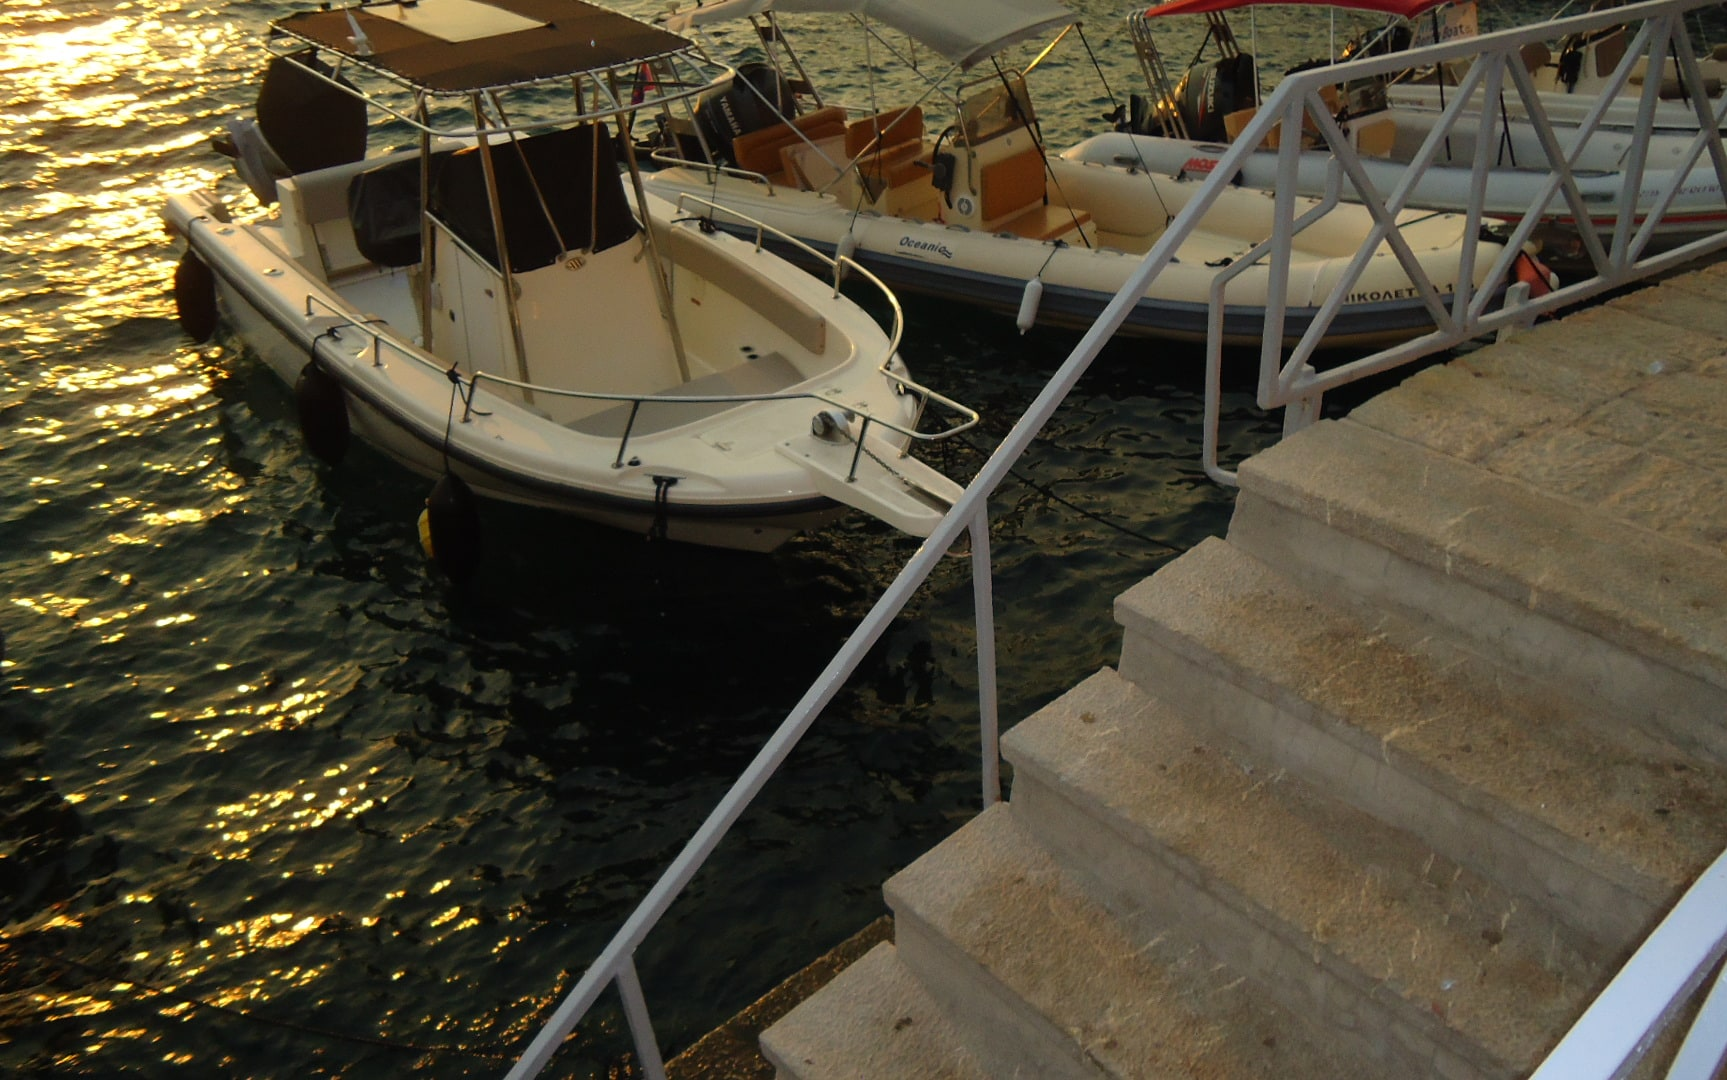
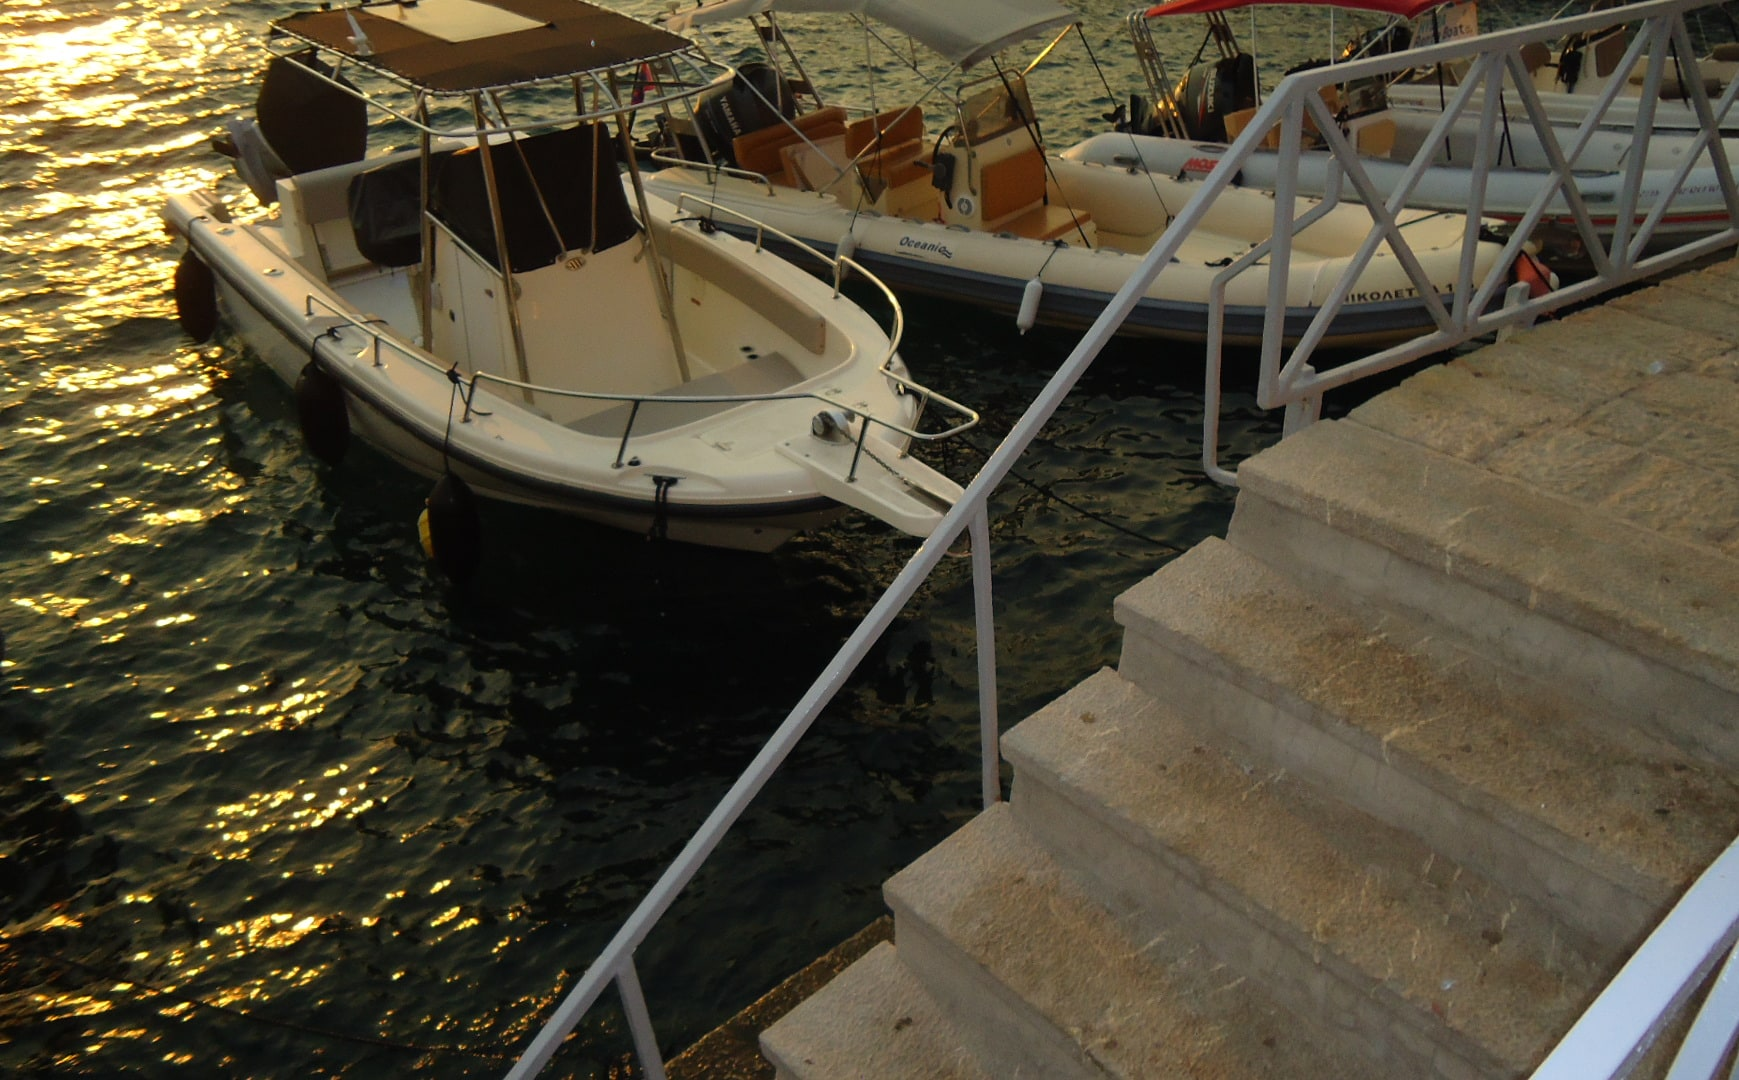
photos shadows and corners

diff --git a/portfolio.jsx b/portfolio.jsx
@@ -1299,9 +1299,41 @@ const PHOTO_EDITS = {
   "Images_camarita/DSC03769.JPG": { ar: 1.8 },
   "Images_camarita/DSC03383.JPG": { ar: 1.8 },
   "Images_camarita/DSC03571.JPG": { ar: 1.61, posX: 100, posY: 88 },
-  "Images_camarita/DSC03658.JPG": { ar: 1.6, posX: 0, posY: 0 },
+  "Images_camarita/DSC03658.JPG": { ar: 1.61, posX: 0, posY: 0 },
   "Images_camarita/DSC03883.JPG": { ar: 0.5, posY: 100 },
 };
+
+const PHOTO_GALLERY_STYLE_DEFAULTS = {
+  shadow: true,
+  shadowAmount: 65,
+  rounded: true,
+  cornerRadius: 6,
+};
+
+function photoGalleryStyleVars(style) {
+  const s = { ...PHOTO_GALLERY_STYLE_DEFAULTS, ...style };
+  const radius = s.rounded ? `${s.cornerRadius}px` : "0px";
+  let shadow = "none";
+  let shadowPad = "0px";
+  if (s.shadow && s.shadowAmount > 0) {
+    const t = s.shadowAmount / 100;
+    const y1 = 1 + 2 * t;
+    const blur1 = 3 + 5 * t;
+    const a1 = 0.06 + 0.1 * t;
+    const y2 = 3 + 8 * t;
+    const blur2 = 10 + 22 * t;
+    const a2 = 0.1 + 0.18 * t;
+    shadow =
+      `0 ${y1.toFixed(1)}px ${blur1.toFixed(1)}px rgba(0, 0, 0, ${a1.toFixed(3)}), ` +
+      `0 ${y2.toFixed(1)}px ${blur2.toFixed(1)}px rgba(0, 0, 0, ${a2.toFixed(3)})`;
+    shadowPad = `${Math.round(6 + 20 * t)}px`;
+  }
+  return {
+    "--photo-frame-radius": radius,
+    "--photo-frame-shadow": shadow,
+    "--photo-frame-shadow-pad": shadowPad,
+  };
+}
 
 function parseClampHeight(h) {
   const m = String(h).match(/clamp\((\d+)px,\s*([\d.]+)vh,\s*(\d+)px\)/);
@@ -1365,7 +1397,7 @@ function PhotoGalleryFrame({ photo, colLength, runtimeEdits }) {
     );
   }
   return (
-    <div style={photoFrameStyle(photo, colLength, null)}>
+    <div className="photo-frame__media" style={photoFrameStyle(photo, colLength, null)}>
       <img
         src={photoWebSrc(photo.src)}
         alt=""
@@ -1439,7 +1471,7 @@ function PhotoCropPreview({ photo, colLength, runtimeEdits }) {
   };
 
   return (
-    <div ref={wrapRef} style={frame}>
+    <div ref={wrapRef} className="photo-frame__media" style={frame}>
       <img
         src={photo.src}
         alt=""
@@ -1577,7 +1609,7 @@ function PhotoEyeCursor({ enabled, scrollRef, dragActiveRef, lightboxOpen }) {
   );
 }
 
-function PhotographyView({ photoGroups, photoEdits, selectedPhotoSrc, photoPickMode, onSelectPhoto }) {
+function PhotographyView({ photoGroups, photoEdits, selectedPhotoSrc, photoPickMode, onSelectPhoto, photoGalleryStyle }) {
   const scrollRef = useRef(null);
   const dragRef   = useRef({ active: false, startX: 0, scrollLeft: 0, lastX: 0, lastT: 0, velocity: 0 });
   const dragActiveRef = useRef(false);
@@ -1746,7 +1778,13 @@ function PhotographyView({ photoGroups, photoEdits, selectedPhotoSrc, photoPickM
   return (
     <div
       className={`photography-view${showSmoothEye ? " photography-view--smooth-eye" : ""}`}
-      style={{ height: "calc(100vh - var(--photo-header-h))", display: "flex", flexDirection: "column", overflow: "hidden" }}
+      style={{
+        ...photoGalleryStyleVars(photoGalleryStyle),
+        height: "calc(100vh - var(--photo-header-h))",
+        display: "flex",
+        flexDirection: "column",
+        overflow: "hidden",
+      }}
     >
       <PhotoEyeCursor
         enabled={showSmoothEye}
@@ -1770,7 +1808,10 @@ function PhotographyView({ photoGroups, photoEdits, selectedPhotoSrc, photoPickM
           display: "flex",
           alignItems: "stretch",
           gap: "clamp(24px, 3.5vw, 52px)",
-          padding: "0 clamp(24px, 5vw, 80px) 0 clamp(10px, 1.8vw, 20px)",
+          paddingTop: "var(--photo-strip-py)",
+          paddingBottom: "var(--photo-strip-py)",
+          paddingLeft: "clamp(10px, 1.8vw, 20px)",
+          paddingRight: "clamp(24px, 5vw, 80px)",
           scrollbarWidth: "none",
           msOverflowStyle: "none",
           cursor: "grab",
@@ -1949,6 +1990,8 @@ function PhotoEditorPanel({
   setPhotoPickMode,
   selectedPhotoSrc,
   setSelectedPhotoSrc,
+  photoGalleryStyle,
+  setPhotoGalleryStyle,
 }) {
   const [open, setOpen] = useState(true);
   const [swapTarget, setSwapTarget] = useState("");
@@ -1957,6 +2000,11 @@ function PhotoEditorPanel({
   const galleryIdx = src ? galleryImages.indexOf(src) : -1;
   const edits = photoEdits || {};
   const cur = photo ? effectivePhotoEdit(photo, edits[src]) : null;
+  const galleryStyle = { ...PHOTO_GALLERY_STYLE_DEFAULTS, ...photoGalleryStyle };
+
+  const patchGalleryStyle = (patch) => {
+    setPhotoGalleryStyle((prev) => ({ ...prev, ...patch }));
+  };
 
   const movePhoto = (delta) => {
     if (galleryIdx < 0) return;
@@ -2071,6 +2119,23 @@ function PhotoEditorPanel({
         </p>
         <TweakToggle label="Click photo to select" value={photoPickMode}
           onChange={setPhotoPickMode} />
+
+        <TweakSection label="All photos" />
+        <TweakToggle label="Shadow" value={galleryStyle.shadow}
+          onChange={(v) => patchGalleryStyle({ shadow: v })} />
+        {galleryStyle.shadow &&
+        <TweakSlider label="Shadow strength" value={galleryStyle.shadowAmount}
+          min={0} max={100} unit="%"
+          onChange={(v) => patchGalleryStyle({ shadowAmount: v })} />
+        }
+        <TweakToggle label="Rounded corners" value={galleryStyle.rounded}
+          onChange={(v) => patchGalleryStyle({ rounded: v })} />
+        {galleryStyle.rounded &&
+        <TweakSlider label="Corner radius" value={galleryStyle.cornerRadius}
+          min={0} max={24} unit="px"
+          onChange={(v) => patchGalleryStyle({ cornerRadius: v })} />
+        }
+
         <TweakSelect label="Photo" value={src}
           options={galleryImages.map((s, i) => ({
             value: s,
@@ -2543,6 +2608,7 @@ function App() {
   const [selectedPhotoSrc, setSelectedPhotoSrc] = useState(CAMARITA_IMAGES[0]);
   const [photoEdits, setPhotoEdits] = useState({});
   const [photoPickMode, setPhotoPickMode] = useState(false);
+  const [photoGalleryStyle, setPhotoGalleryStyle] = useState(PHOTO_GALLERY_STYLE_DEFAULTS);
 
   const photoGroups = useMemo(
     () => buildPhotoGroups(galleryImages),
@@ -2618,6 +2684,7 @@ function App() {
           selectedPhotoSrc={selectedPhotoSrc}
           photoPickMode={photoPickMode}
           onSelectPhoto={setSelectedPhotoSrc}
+          photoGalleryStyle={photoGalleryStyle}
         />
         }
         {view === "About" && <AboutView />}
@@ -2640,6 +2707,8 @@ function App() {
         setPhotoPickMode={setPhotoPickMode}
         selectedPhotoSrc={selectedPhotoSrc}
         setSelectedPhotoSrc={setSelectedPhotoSrc}
+        photoGalleryStyle={photoGalleryStyle}
+        setPhotoGalleryStyle={setPhotoGalleryStyle}
       />
       }
 
@@ -2689,8 +2758,15 @@ styleEl.textContent = `
     --about-col-gap: clamp(20px, 3vw, 48px);
     --photo-header-h: 60px;
     --photo-nav-h: 48px;
+    --photo-strip-base: clamp(14px, 2.2vh, 28px);
+    --photo-frame-shadow-pad: 0px;
+    --photo-strip-py: var(--photo-strip-base);
     --photo-chrome: calc(var(--photo-header-h) + var(--photo-nav-h));
-    --photo-view-h: calc(100vh - var(--photo-chrome));
+    --photo-view-h: calc(100vh - var(--photo-chrome) - 2 * var(--photo-strip-py));
+  }
+  .photography-view {
+    --photo-strip-py: max(var(--photo-strip-base), var(--photo-frame-shadow-pad, 0px));
+    --photo-view-h: calc(100vh - var(--photo-chrome) - 2 * var(--photo-strip-py));
   }
   .view-fade { animation: viewFade .42s cubic-bezier(.2,.7,.2,1); }
   @keyframes viewFade { from { opacity: 0; transform: translateY(8px); } to { opacity: 1; transform: none; } }
@@ -2980,7 +3056,16 @@ styleEl.textContent = `
   }
   .photo-nav-item { transition: color .2s ease; }
   .photo-nav-item:hover { color: var(--ink) !important; }
-  .photo-frame { display: block; border-radius: 2px; }
+  .photo-frame {
+    display: block;
+    overflow: visible;
+    border-radius: var(--photo-frame-radius, 6px);
+    box-shadow: var(--photo-frame-shadow, 0 2px 6px rgba(0, 0, 0, 0.1), 0 6px 20px rgba(0, 0, 0, 0.14));
+  }
+  .photo-frame__media {
+    border-radius: inherit;
+    overflow: hidden;
+  }
   .photography-view--smooth-eye .photo-frame { cursor: none; }
   .photography-view--smooth-eye .photo-frame img { cursor: none; }
   .photo-eye-cursor {
